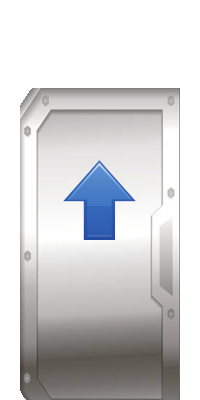
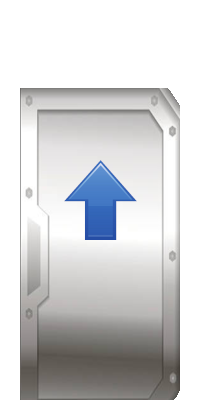
Chat Room Map Doors - Open Display Style

diff --git a/BondageClub/Screens/Online/ChatRoom/ChatRoomMap.js b/BondageClub/Screens/Online/ChatRoom/ChatRoomMap.js
@@ -96,11 +96,12 @@ var ChatRoomMapObjectList = [
 	{ ID: 3050, Type: "WallDecoration", Style: "Fireplace" },
 
 	{ ID: 4000, Type: "WallPath", Style: "Blank", CanEnter: function() { return false; } },
-	{ ID: 4010, Type: "WallPath", Style: "WoodOpen", Top: -1, Height: 2 , CanEnter: function() { return true; } },
-	{ ID: 4011, Type: "WallPath", Style: "WoodClosed", Top: -1, Height: 2 , CanEnter: function() { return Player.CanInteract(); } },
-	{ ID: 4012, Type: "WallPath", Style: "WoodLocked", Top: -1, Height: 2 , CanEnter: function() { return Player.CanInteract() && ChatRoomPlayerIsAdmin(); } },
-	{ ID: 4020, Type: "WallPath", Style: "MetalUp", Top: -1, Height: 2 , CanEnter: function(Direction) { return Direction === "U" || Direction === "";  } },
-	{ ID: 4021, Type: "WallPath", Style: "MetalDown", Top: -1, Height: 2 , CanEnter: function(Direction) { return Direction === "D" || Direction === ""; } },
+	{ ID: 4010, Type: "WallPath", Style: "WoodOpen", Top: -1, Height: 2, CanEnter: function() { return true; } },
+	{ ID: 4011, Type: "WallPath", Style: "WoodClosed", OccupiedStyle: "WoodOpen", Top: -1, Height: 2, CanEnter: function() { return Player.CanInteract(); } },
+	{ ID: 4012, Type: "WallPath", Style: "WoodLocked", OccupiedStyle: "WoodOpen", Top: -1, Height: 2, CanEnter: function() { return Player.CanInteract() && ChatRoomPlayerIsAdmin(); } },
+	{ ID: 4020, Type: "WallPath", Style: "Metal", OccupiedStyle: "MetalOpen", Top: -1, Height: 2, CanEnter: function() { return true; } },
+	{ ID: 4021, Type: "WallPath", Style: "MetalUp", OccupiedStyle: "MetalOpen", Top: -1, Height: 2, CanEnter: function(Direction) { return Direction === "U" || Direction === "";  } },
+	{ ID: 4022, Type: "WallPath", Style: "MetalDown", OccupiedStyle: "MetalOpen", Top: -1, Height: 2, CanEnter: function(Direction) { return Direction === "D" || Direction === ""; } },
 
 ];
 
@@ -413,18 +414,14 @@ function ChatRoomMapCollision() {
  * Returns TRUE if there's a character at an X and Y position that's wearing a specific asset name & group
  * @param {number} X - The X position on the screen
  * @param {number} Y - The Y position on the screen
- * @param {string} AssetName - The width size of the drawn map
- * @param {AssetGroupName} AssetGroup - The height size of the drawn map
- * @returns {boolean} - TRUE if a character wearing this item is found
+ * @returns {Character} - TRUE if a character wearing this item is found
  */
-function ChatRoomMapCharAtPosIsWearing(X, Y, AssetName, AssetGroup) {
-	if ((AssetName == null) || (AssetGroup == null)) return false;
-	if ((X < 0) || (Y < 0) || (X >= ChatRoomMapWidth) || (Y >= ChatRoomMapHeight)) return false;
+function ChatRoomMapGetCharacterAtPos(X, Y) {
+	if ((X < 0) || (Y < 0) || (X >= ChatRoomMapWidth) || (Y >= ChatRoomMapHeight)) return null;
 	for (let C of ChatRoomCharacter)
 		if ((C.MapData != null) && (C.MapData.X === X) && (C.MapData.Y === Y))
-			if (InventoryIsWorn(C, AssetName, AssetGroup))
-				return true;
-	return false;
+			return C;
+	return null;
 }
 
 /**
@@ -565,8 +562,13 @@ function ChatRoomMapDrawGrid(Left, Top, Width, Height) {
 			for (let Obj of ChatRoomMapObjectList)
 				if (Obj.ID == ObjectID) {
 					if (Obj.Style === "Blank") break;
-					if (ChatRoomMapCharAtPosIsWearing(X, Y, Obj.AssetName, Obj.AssetGroup)) break;
-					DrawImageResize("Screens/Online/ChatRoom/MapObject/" + Obj.Type + "/" + Obj.Style + ".png", Left + ScreenX + ((Obj.Left == null) ? 0 : TileWidth * Obj.Left), Top + ScreenY + ((Obj.Top == null) ? 0 : TileHeight * Obj.Top), TileWidth * ((Obj.Width == null) ? 1 : Obj.Width), TileHeight * ((Obj.Height == null) ? 1 : Obj.Height));
+					let ImageName = Obj.Style;
+					if ((Obj.AssetName != null) || (Obj.OccupiedStyle != null)) {
+						let Char = ChatRoomMapGetCharacterAtPos(X, Y);
+						if ((Char != null) && (Obj.AssetName != null) && (Obj.AssetGroup != null) && InventoryIsWorn(Char, Obj.AssetName, Obj.AssetGroup)) break;
+						if ((Char != null) && (Obj.OccupiedStyle != null)) ImageName = Obj.OccupiedStyle;
+					}
+					DrawImageResize("Screens/Online/ChatRoom/MapObject/" + Obj.Type + "/" + ImageName + ".png", Left + ScreenX + ((Obj.Left == null) ? 0 : TileWidth * Obj.Left), Top + ScreenY + ((Obj.Top == null) ? 0 : TileHeight * Obj.Top), TileWidth * ((Obj.Width == null) ? 1 : Obj.Width), TileHeight * ((Obj.Height == null) ? 1 : Obj.Height));
 					break;
 				}
 

diff --git a/BondageClub/Scripts/Typedef.d.ts b/BondageClub/Scripts/Typedef.d.ts
@@ -3728,6 +3728,7 @@ type ChatRoomMapPos = {
 interface ChatRoomMapDoodad {
 	ID: number;
 	Style: string;
+	OccupiedStyle?: string;
 	CanEnter?: function;
 }
 
